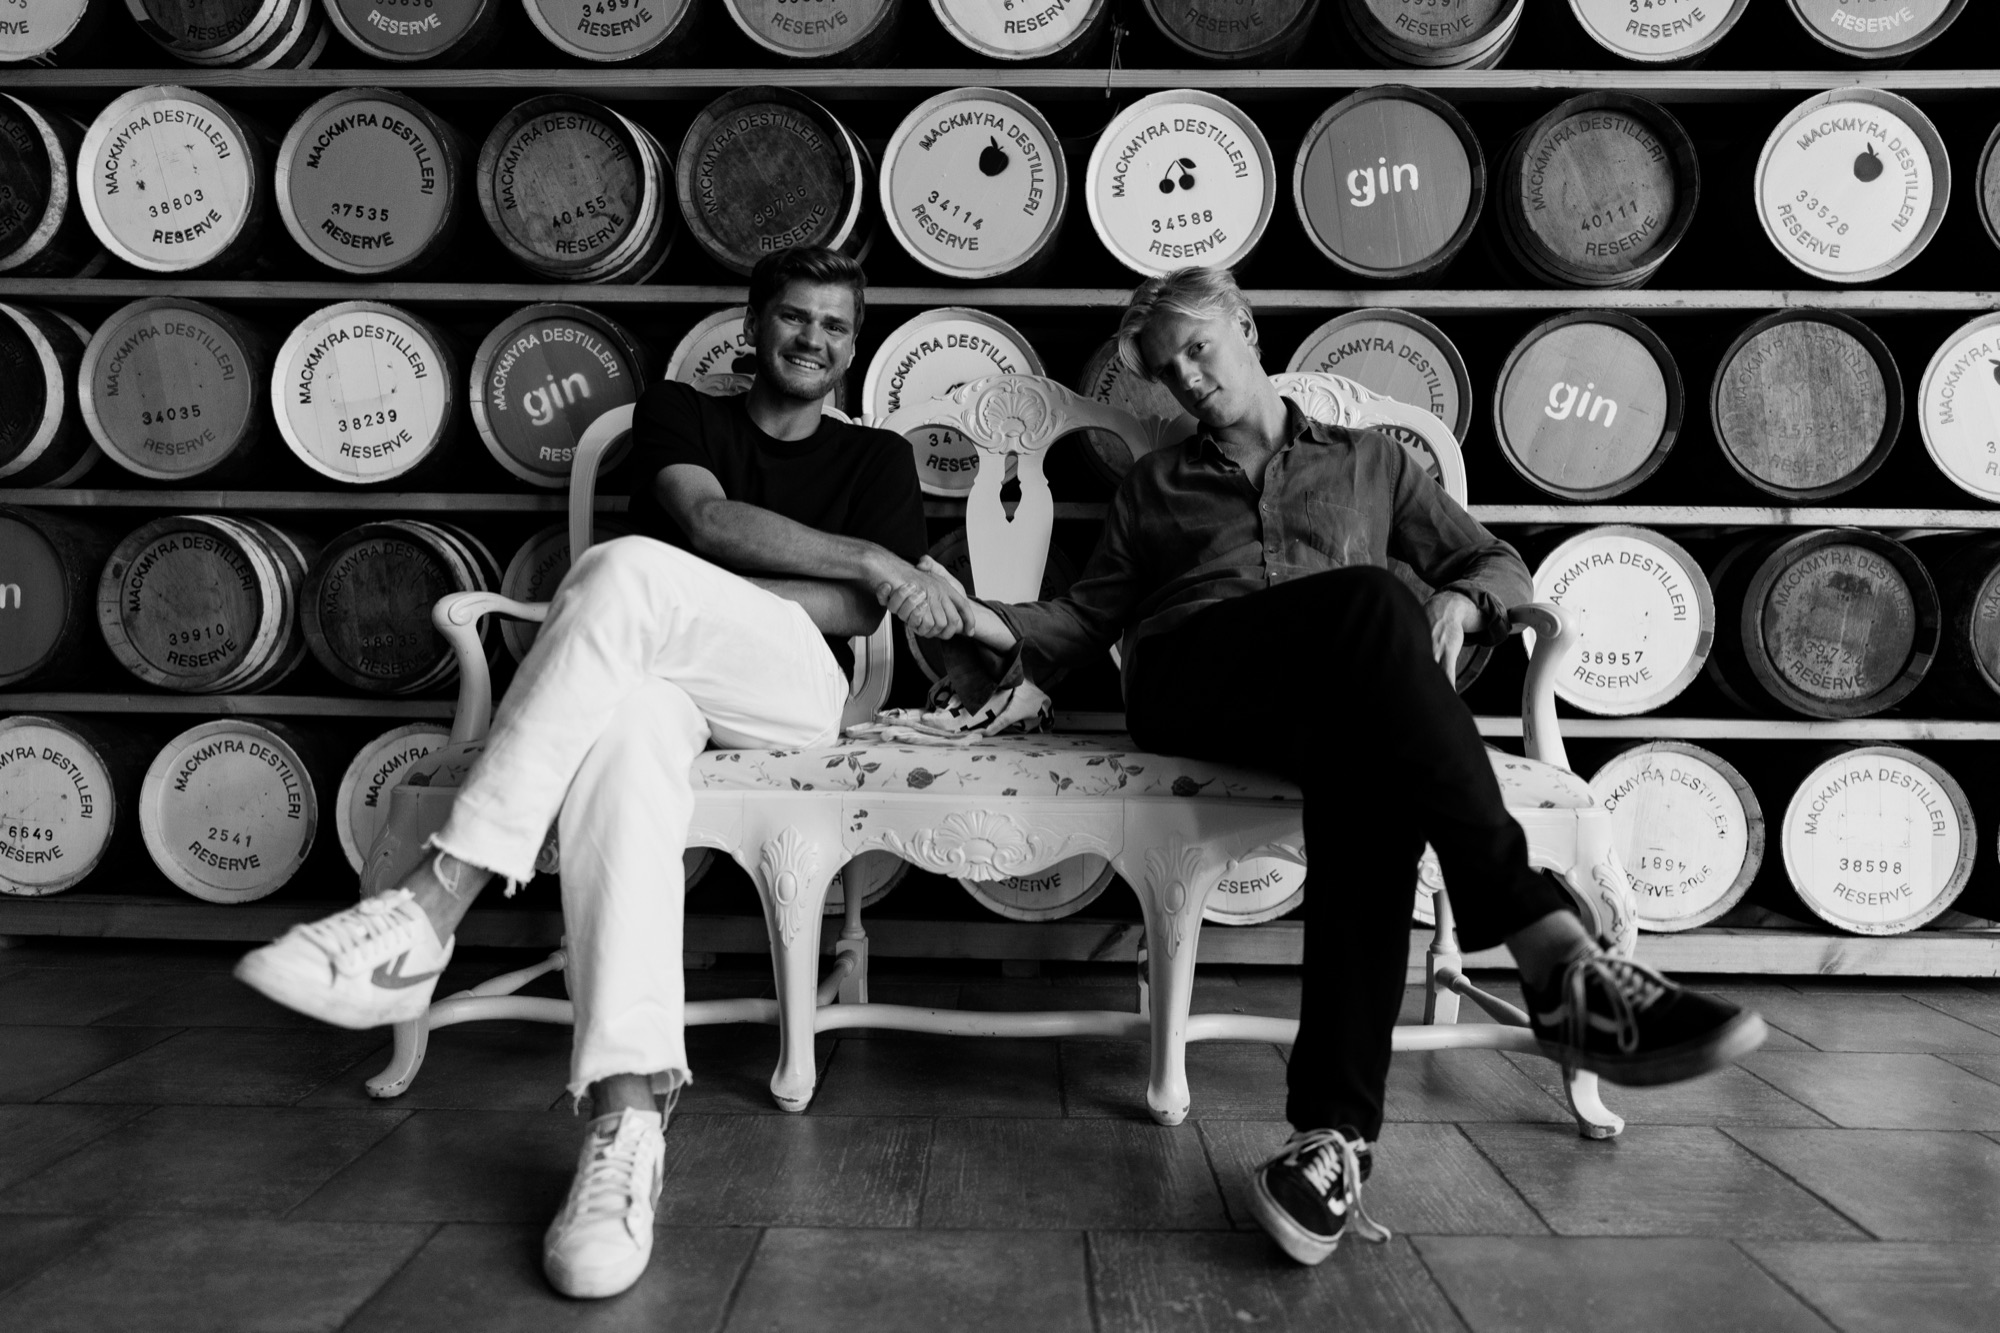
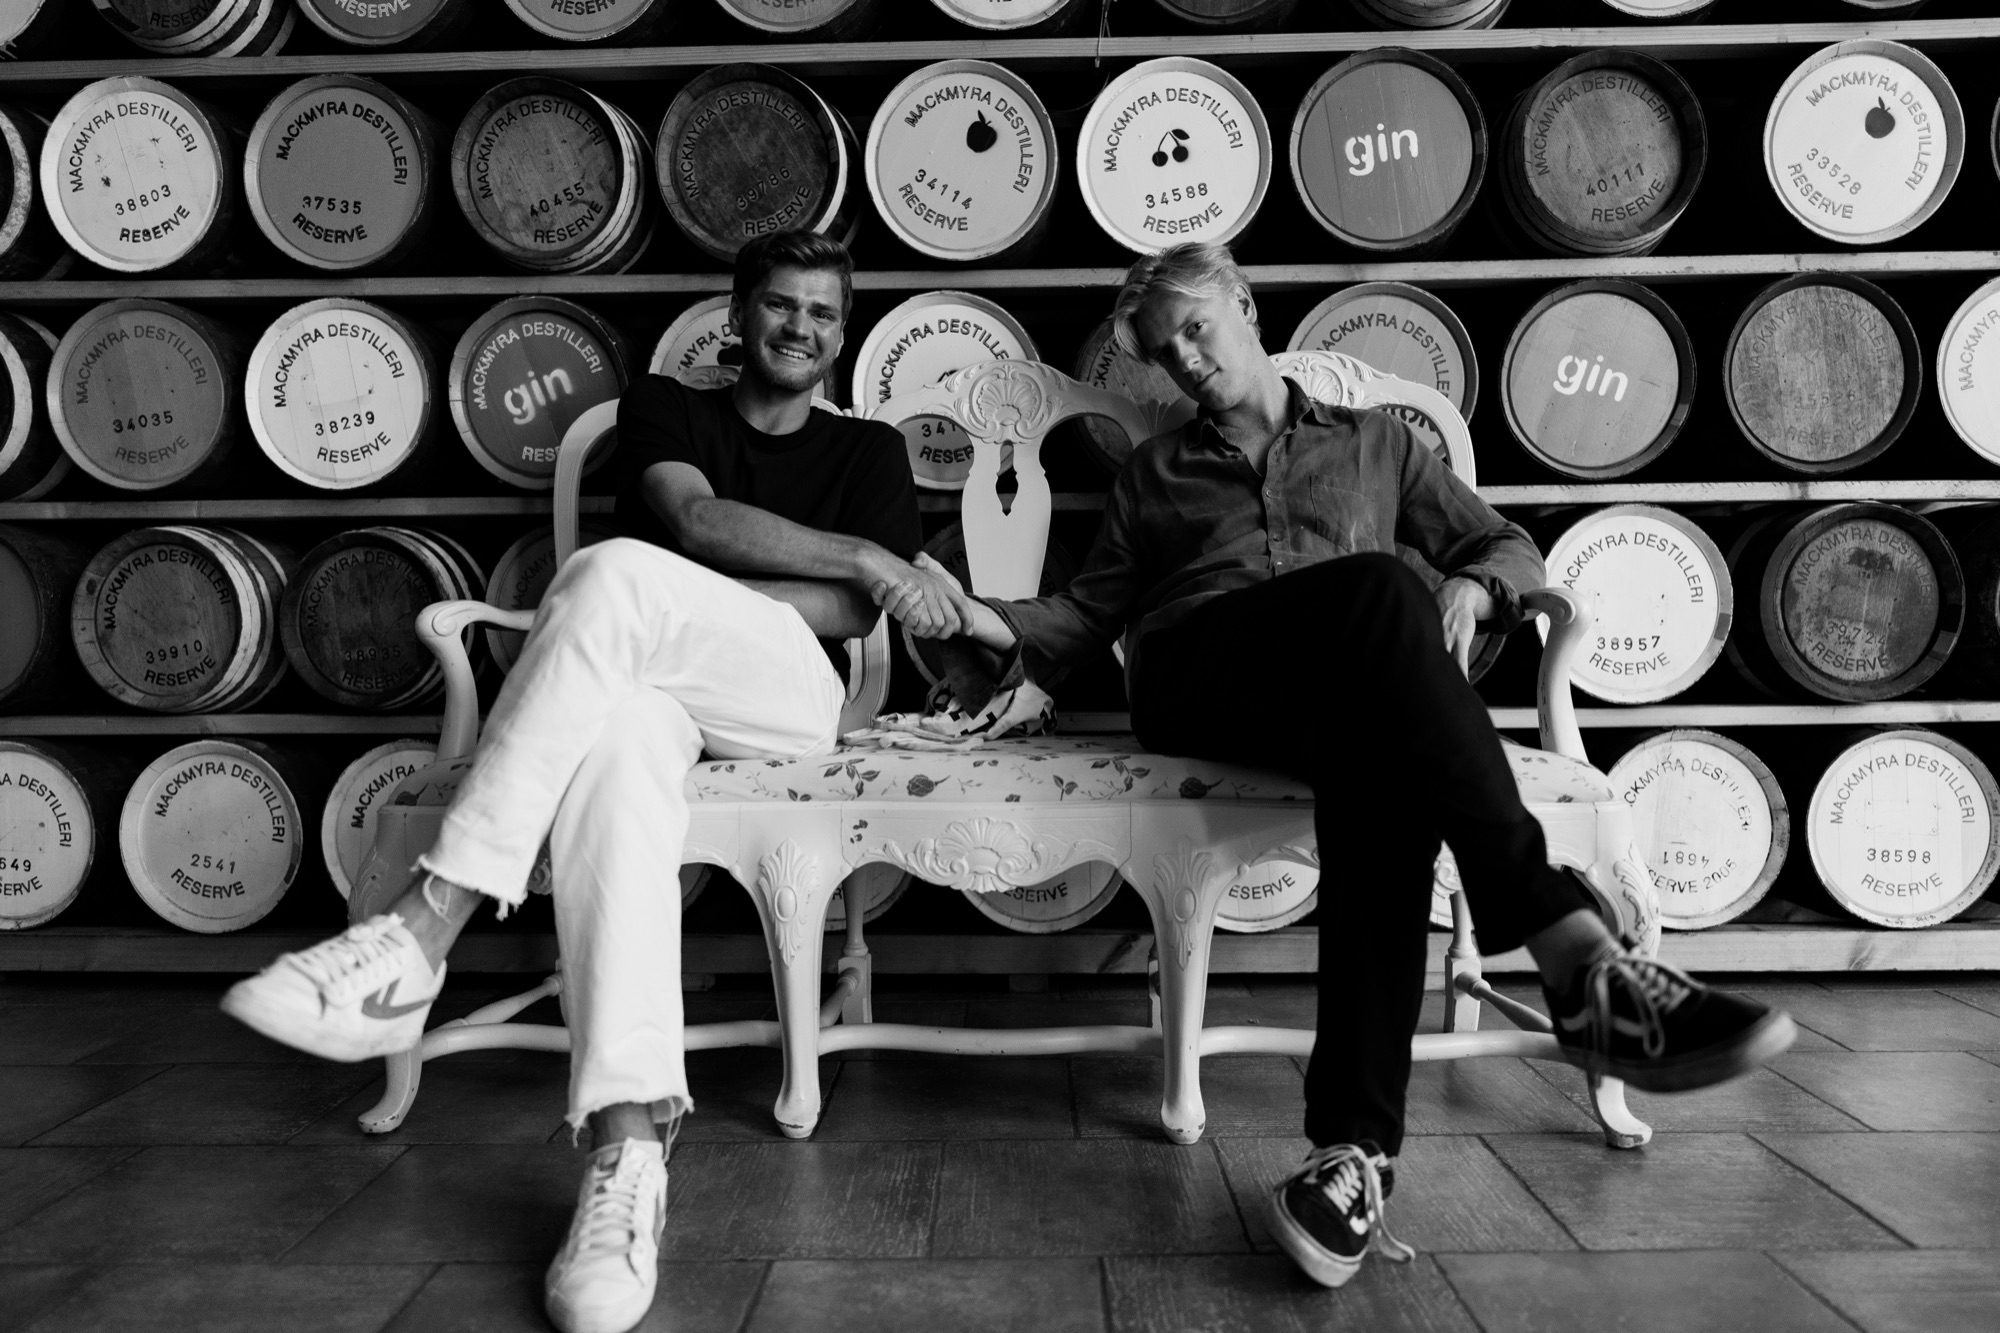
Swap in new editorial photo
Claude-Session: https://claude.ai/code/session_01XPg38iWdFXtQfgKjHFN5YF

diff --git a/index.html b/index.html
@@ -121,7 +121,7 @@
           </div>
           <figcaption class="mono"><span>No. 04 — Brand</span><span class="slide-count" aria-live="polite">01 / 03</span></figcaption>
         </figure>
-        <figure class="frame f5 reveal"><div class="photo"><img src="images/editorial.jpg" alt="Black and white photo of two men shaking hands on an ornate bench in front of a wall of whisky barrels" loading="lazy"></div><figcaption class="mono">No. 05 — Editorial</figcaption></figure>
+        <figure class="frame f5 reveal"><div class="photo"><img src="images/editorial.jpg?v=2" alt="Black and white photo of two men shaking hands on an ornate bench in front of a wall of whisky barrels" loading="lazy"></div><figcaption class="mono">No. 05 — Editorial</figcaption></figure>
       </div>
 
       <ul class="offer">
